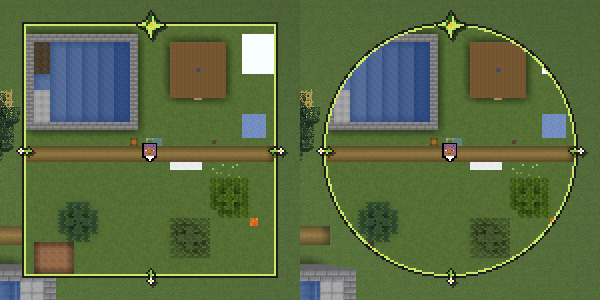
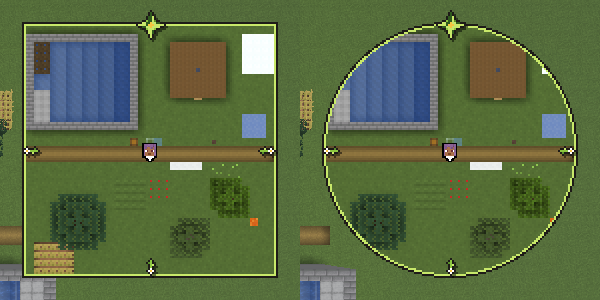
rahmen-biom.png mit den Marken an der Kante
Aus dem Gametest Bilder in der CI mit -Pbilder, Branch bild/189-1.

diff --git a/docs/rahmen.md b/docs/rahmen.md
@@ -127,7 +127,7 @@ Vorgabe.
   Kategorie rechnet sie nur neu, wenn sich das Biom ändert. Während der
   Überblendung zeichnet sie zwei Rahmen, siehe „Kosten“.
 
-![Der Rahmen „biom“ eckig und rund in der Szene des Gametests, einer Ebene, also Grasland; die Blumen O, S und W zeigen nach aussen](bilder/rahmen-biom.png)
+![Der Rahmen „biom“ eckig und rund in der Szene des Gametests, einer Ebene, also Grasland; die Blumen O, S und W zeigen nach aussen und sitzen innen an der Kante](bilder/rahmen-biom.png)
 
 ## Dateien
 
@@ -373,7 +373,8 @@ Geschätzt, nicht gemessen:
 Der Gametest `Bilder` nimmt jeden Rahmen eckig und rund bei 4 px auf,
 `rahmen-<skin>.png`, und das Menü mit `uhr`, dazu mit Verzierungen aus
 und der Maus auf N (`rahmen-menue-halb.png`), siehe [Minimap](minimap.md),
-„Bilder“.
+„Bilder“. `rahmen-biom.png` stammt aus einem Lauf dieses Gametests in
+der CI mit `-Pbilder`, zu mod#189.
 `rahmen-abstand.png` setzt die Bildschirmfotos `rahmen-biom-0` und
 `rahmen-uhr-0` dieses Gametests zusammen, aus einem Lauf auf main `49e4f3c` und
 einem mit 0012, je die rechte obere Ecke.
